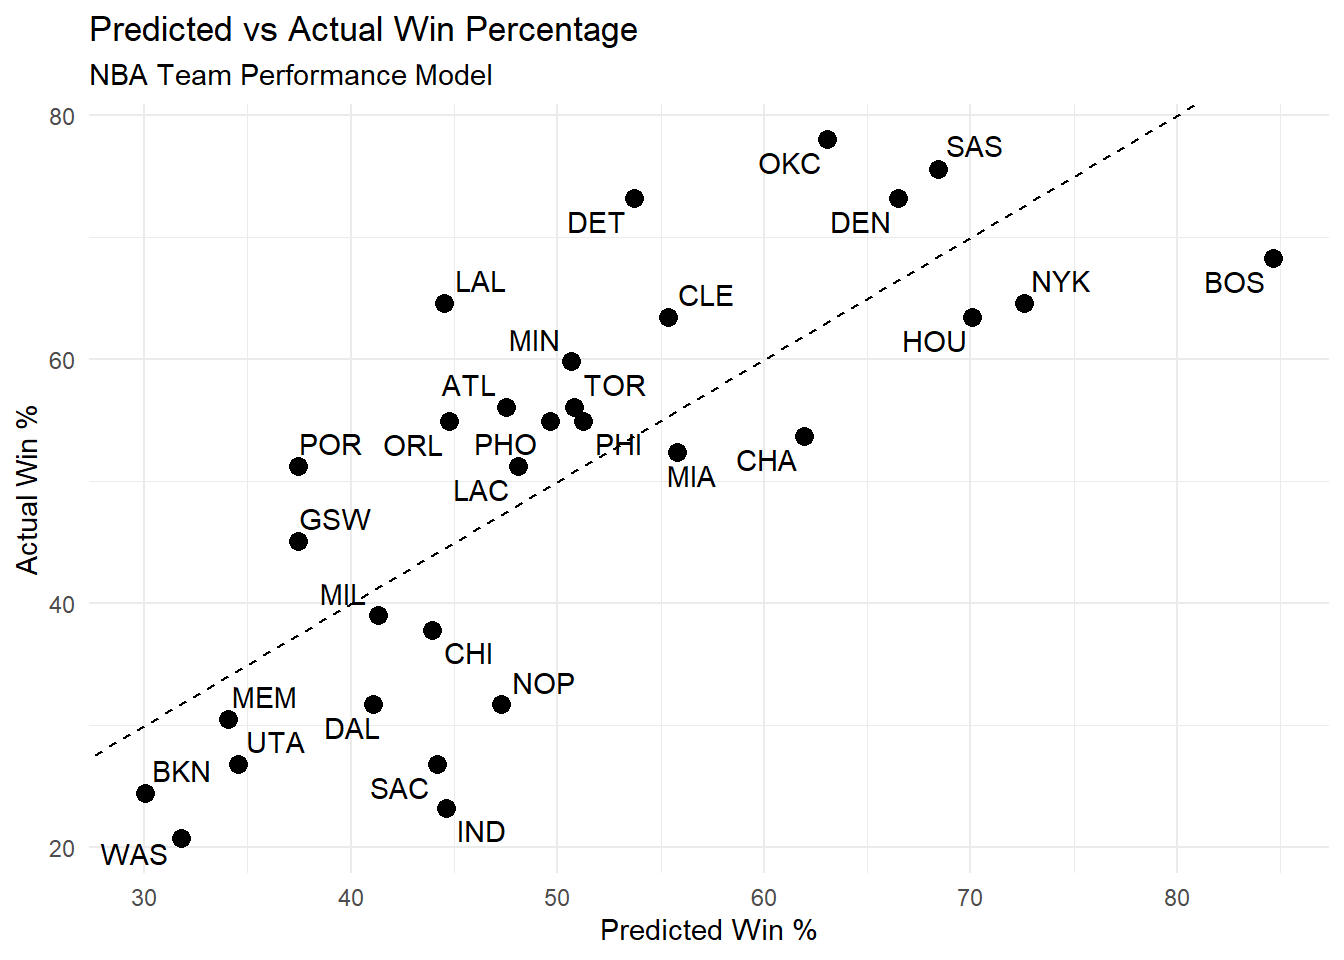
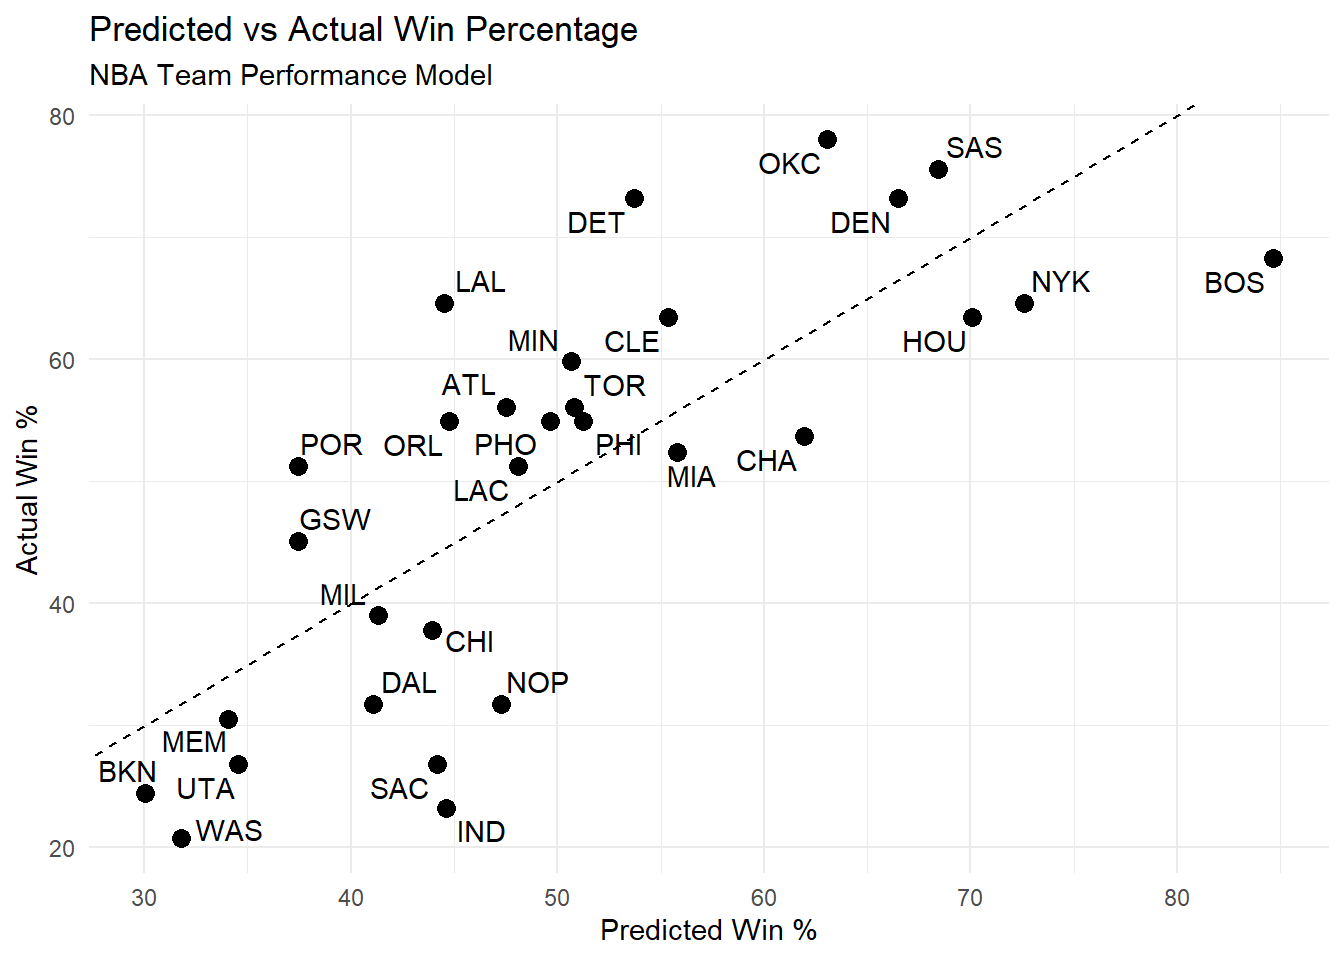
yaml file

diff --git a/docs/about.html b/docs/about.html
@@ -133,6 +133,10 @@ pre > code.sourceCode > span > a:first-child::before { text-decoration: underlin
     <a class="nav-link active" href="./about.html" aria-current="page"> 
 <span class="menu-text">About</span></a>
   </li>  
+  <li class="nav-item">
+    <a class="nav-link" href="./nbastatsandwinpct.html"> 
+<span class="menu-text">NBA Stats and Win Pct</span></a>
+  </li>  
 </ul>
           </div> <!-- /navcollapse -->
             <div class="quarto-navbar-tools">

diff --git a/docs/index.html b/docs/index.html
@@ -133,6 +133,10 @@ pre > code.sourceCode > span > a:first-child::before { text-decoration: underlin
     <a class="nav-link" href="./about.html"> 
 <span class="menu-text">About</span></a>
   </li>  
+  <li class="nav-item">
+    <a class="nav-link" href="./nbastatsandwinpct.html"> 
+<span class="menu-text">NBA Stats and Win Pct</span></a>
+  </li>  
 </ul>
           </div> <!-- /navcollapse -->
             <div class="quarto-navbar-tools">

diff --git a/docs/nbastatsandwinpct.html b/docs/nbastatsandwinpct.html
@@ -134,6 +134,10 @@ pre > code.sourceCode > span > a:first-child::before { text-decoration: underlin
     <a class="nav-link" href="./about.html"> 
 <span class="menu-text">About</span></a>
   </li>  
+  <li class="nav-item">
+    <a class="nav-link active" href="./nbastatsandwinpct.html" aria-current="page"> 
+<span class="menu-text">NBA Stats and Win Pct</span></a>
+  </li>  
 </ul>
           </div> <!-- /navcollapse -->
             <div class="quarto-navbar-tools">